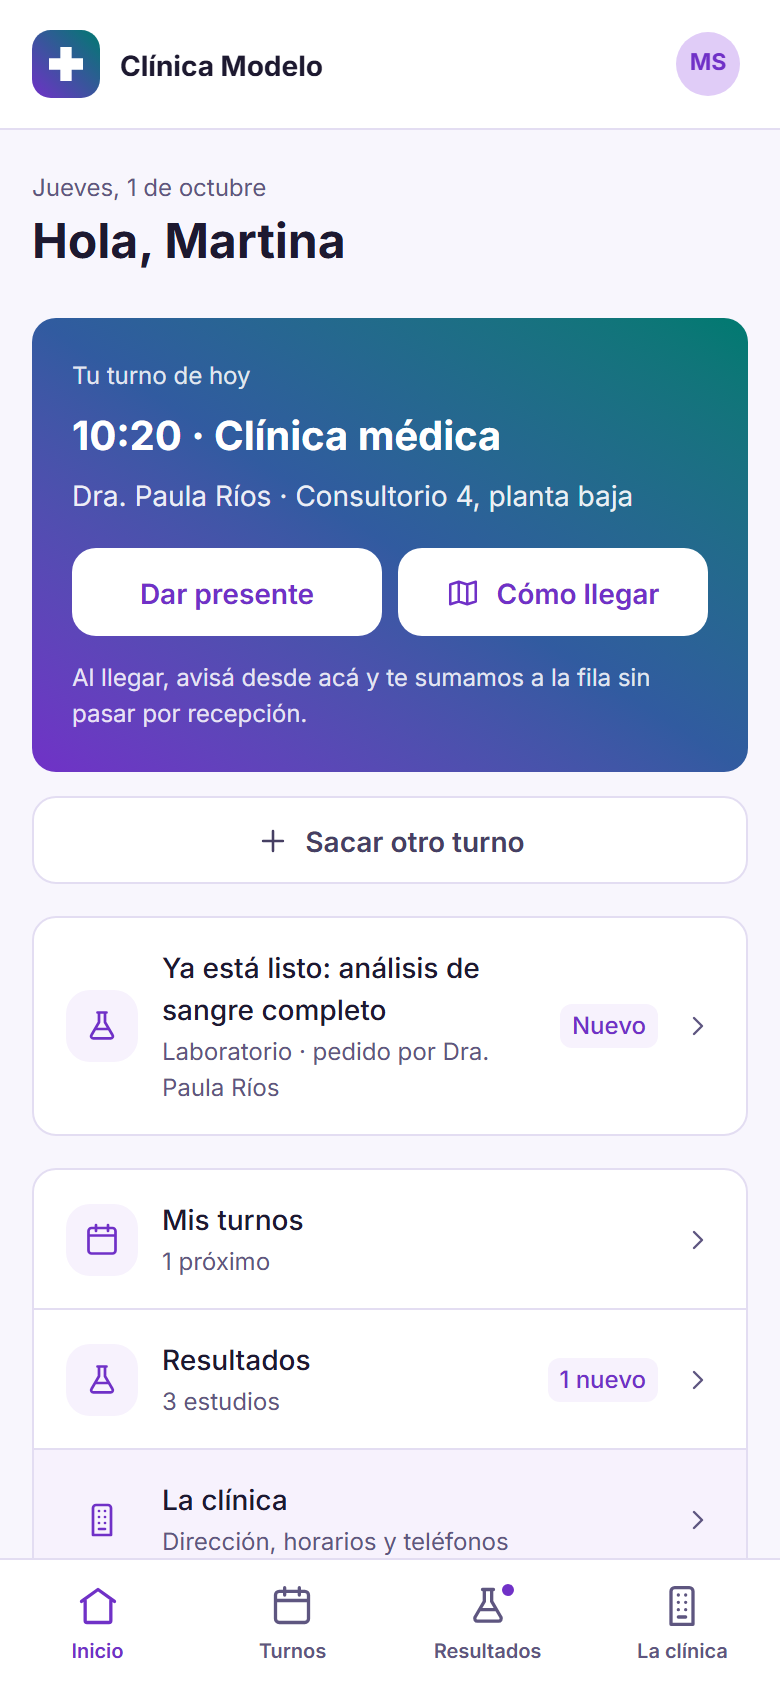
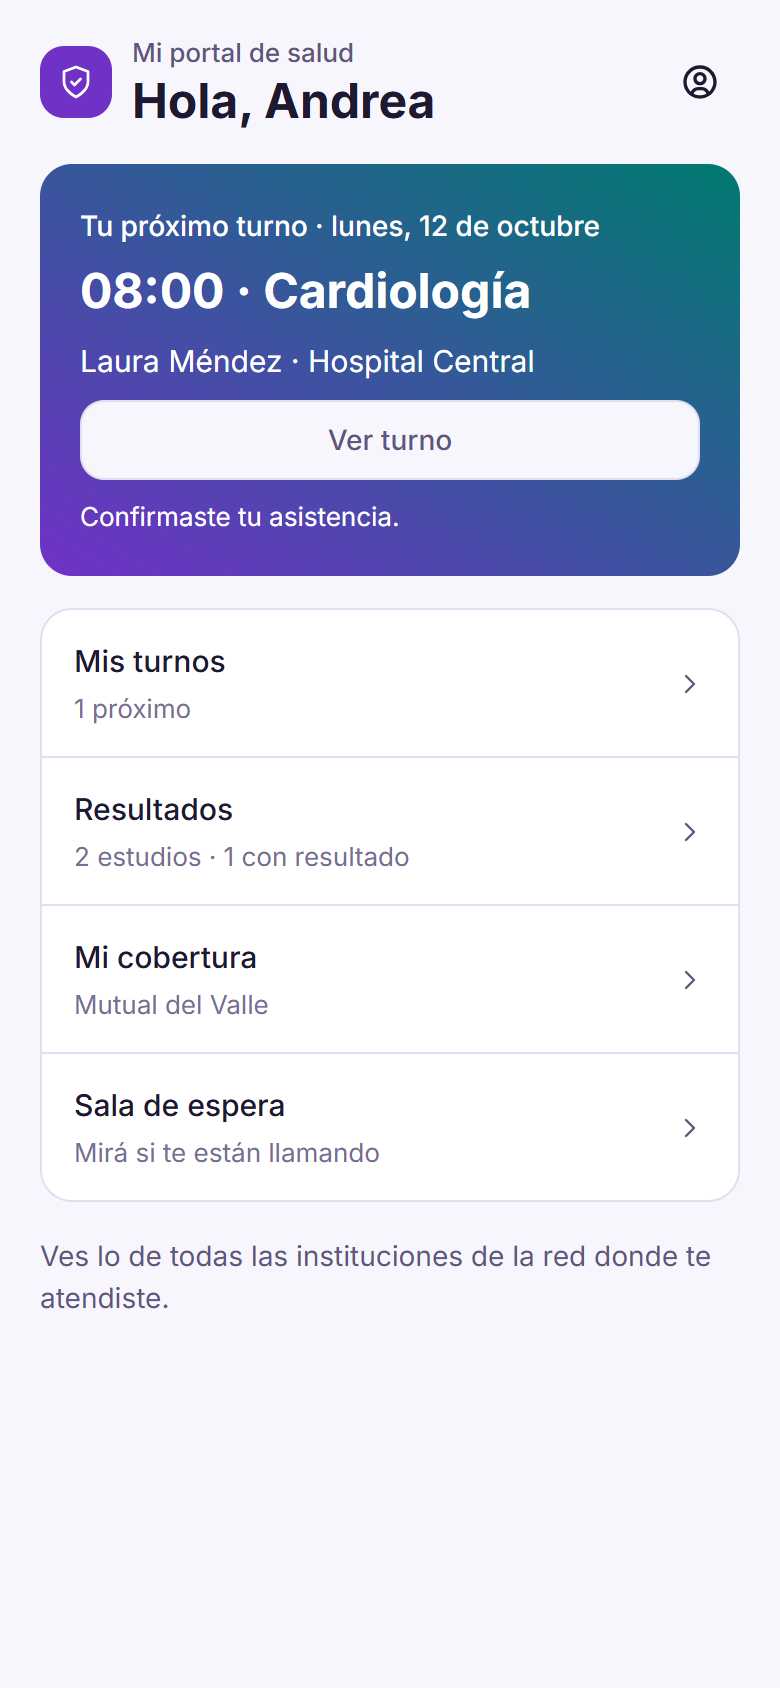
docs(portal): portal del paciente en README, guion, recorrido y diseño (#122)
El guion (minutos 9 a 12) recorre a Andrea Paniagua: confirmar el turno y
verlo en la agenda, resultados, cobertura y el llamado desde Cardiología.
Capturas nuevas del recorrido del comprador desde la carga de la demo.

Claude-Session: https://claude.ai/code/session_01PtaCLbYFwCoDXJMRH9gmHq

diff --git a/docs/comercial/guion-15-minutos.md b/docs/comercial/guion-15-minutos.md
@@ -13,7 +13,7 @@ entregan por el canal de la demo; no están en este documento.
 | 0–1 | Apertura | — |
 | 1–4 | Clínica: configuración | `admin@salud.local` en Hospital Central |
 | 4–9 | Clínica: uso | la misma |
-| 9–12 | Paciente | ninguna: la app para pacientes |
+| 9–12 | Paciente | `andrea.paniagua@paciente.test`, en el portal del paciente, y `cardio.med@hospital.gob.ar` para llamarla |
 | 12–15 | Financiador | `admin@mutualdelvalle.test`, en ventana privada |
 
 ## Antes de empezar
@@ -22,9 +22,12 @@ entregan por el canal de la demo; no están en este documento.
    **Hospital Central**, **Ingresar**.
 2. **Ventana 2, privada:** entrá con `admin@mutualdelvalle.test`. Dos pestañas de una misma
    ventana comparten la sesión; por eso tiene que ser otra ventana.
-3. **App para pacientes:** abrí `/demo/app-clinica` en el celular o en el modo celular del
-   navegador.
-4. Si ensayaste, pedí que recarguen el entorno **con la misma ancla**. Lo que se opera en el
+3. **Portal del paciente:** en el celular, o en el modo celular del navegador, abrí `/mi` →
+   **Ingresar** y entrá con `andrea.paniagua@paciente.test` y la clave de la demo. Su
+   sesión es aparte: no se mezcla con la del hospital aunque estén en el mismo navegador.
+4. **Ventana 3, privada:** entrá con `cardio.med@hospital.gob.ar` (Laura Méndez, cardióloga de
+   Central) y dejala en **Operación → Filas**, área Cardiología. Es la que llama a Andrea.
+5. Si ensayaste, pedí que recarguen el entorno **con la misma ancla**. Lo que se opera en el
    ensayo queda con la hora real y desordena los datos.
 
 ## 0–1 · Apertura
@@ -79,25 +82,30 @@ de Consultorios externos, abierta hoy a las 08:01.
 
 ## 9–12 · Paciente
 
-En la app para pacientes:
+En el portal del paciente, con **Andrea Paniagua**: la misma persona del caso de radiografía.
 
-1. **Empezar** (o *Ingresar*) → DNI **34521521**. La app reconoce a **Martina Sosa** y pide un
-   código de 6 dígitos: escribí cualquiera. **Sí, soy yo**.
-2. **Inicio:** **señalá** el turno de hoy (Clínica médica con la Dra. Paula Ríos) y el aviso de
-   un resultado listo.
-3. **Sacar otro turno →** Pediatría → Dra. Laura Molina → un horario → **Continuar**. **Señalá**
-   *A pagar en la clínica*: copago de OSDE 210, $ 3.500. **Decí:** «El paciente sabe cuánto va a
-   pagar antes de confirmar».
-4. Volvé al inicio → **Dar presente** → **Dar presente**. **Señalá** *Estás en la fila 3.º* y
-   el aviso de a qué consultorio lo van a llamar. **Decí:** «Avisa que llegó sin pasar por
-   recepción y espera donde quiere».
-5. **Resultados →** *Análisis de sangre completo*.
+1. **Inicio:** **señalá** su próximo turno (el primer horario libre a partir de tres días después de la carga; en
+   la carga verificada, el lunes a las 08:00), en
+   *Dra. Méndez · Cardiología*, **Hospital Central**. **Decí:** «Es la misma paciente que vimos en
+   el hospital, con sus datos reales, de todas las instituciones donde se atendió».
+2. En la tarjeta del turno, **Confirmar asistencia** y, en el turno, **Confirmar asistencia**. Pasá a la ventana 1, **Operación → Turnos**, y
+   abrí ese día en la agenda de la Dra. Méndez: el turno dice **Confirmado por el paciente**.
+   **Decí:** «Lo que hace el paciente llega al hospital en el acto. Nadie tuvo que llamarlo».
+   No lo canceles: se consume el escenario.
+3. **Resultados:** **señalá** la *Radiografía de tórax* «Solicitado el …, todavía sin resultado»,
+   que es la del caso, y el *Hemograma completo* con resultado **Normal** → el ícono de descarga. **Decí:**
+   «Baja el archivo que cargó el hospital, no un resumen armado aparte».
+4. **Cobertura:** **señalá** Mutual del Valle, Plan Integral, **MV00011**, *Confirmada por tu
+   institución*. **Decí:** «Es la misma afiliación que verificó la administrativa».
+5. **Sala de espera:** Andrea está esperando en Cardiología. Dejá esa pantalla abierta en el
+   celular y pasá a la ventana 3: en **Box 1**, **Llamar siguiente** (en esta carga llama a Luis
+   Gómez, que está antes); en **Box 2**, **Llamar siguiente**: es Andrea. En menos de 10 segundos
+   el celular muestra **Te están llamando · Box 2 · Hospital Central**. **Decí:** «Espera donde
+   quiere; el aviso le llega al teléfono». Después, en cada caso, **Volver a la cola**: deja la
+   demo como estaba.
 
-**Nota interna, no para decir:** la app es una versión de demostración, con datos propios.
-Martina Sosa y OSDE 210 no son los pacientes ni las coberturas de Central, y lo que se hace ahí
-no escribe en el hospital. No digas que es la misma persona que viste en Central. Si
-preguntan por la puesta en marcha, contestá: «El acceso definitivo y la integración con la
-historia clínica y los turnos de su institución se definen en la implementación».
+**Si preguntan:** para crear su cuenta, el paciente valida la identidad con los datos del DNI
+contra RENAPER. Sacar turno desde el portal todavía no está disponible.
 
 ## 12–15 · Financiador
 
@@ -124,6 +132,12 @@ la recibe y el financiador que la paga».
 - **El financiador entra en *Planes* y no en *Inicio*:** es lo esperable hoy (lo cambia el #92).
   Andá directo a *Autorizaciones*.
 - **Andrea no tiene autorización pendiente:** la respondieron en un ensayo. Mostrá a Carina Ojeda.
+- **El turno de Andrea ya figura confirmado o cancelado:** lo usaron en un ensayo. Pedí que corran
+  `seed_portal_demo`: le da un turno reservado nuevo sin tocar el resto de la carga.
+- **Andrea no aparece en la fila de Cardiología, o el portal dice «No estás en una sala de
+  espera»:** la atendieron o la dieron por ausente en un ensayo, o pasaron más de 24 horas desde la
+  carga. `seed_portal_demo` la vuelve a poner en la sala. Si la llamaron y no la devolvieron a la
+  cola, el portal sigue mostrando el llamado hasta 8 horas: **Volver a la cola** en su caso.
 - **Internación:** si te piden mostrarla, no uses la vista *Todos*: en esta carga una paciente
   figura en dos camas a la vez y aparece una tarjeta roja «Conflicto». Filtrá por Pediatría.
 - **Un número no coincide:** revisá institución, área, mes y filtros antes de citarlo. Si sigue

diff --git a/docs/comercial/recorrido-comprador.md b/docs/comercial/recorrido-comprador.md
@@ -140,21 +140,23 @@ lo que paga el financiador de lo que paga el paciente, con el cupo que le queda.
 
 ---
 
-## 3. El paciente: la app en el celular
+## 3. El paciente: su portal en el celular
 
-Abrí la app para pacientes desde la landing (**Ver la app**) o desde `/demo/app-clinica`, en el
-celular. Para entrar usá el DNI ficticio **34521521** (Martina Sosa) y cualquier código de 6
-dígitos.
+Abrí el portal del paciente desde la landing (**Ver la app**) o desde `/mi`, en el celular.
+Entrá como **Andrea Paniagua**: `andrea.paniagua@paciente.test`, con la clave de la demo. Es la
+misma persona que viste en Hospital Central y que vas a ver en Mutual del Valle: lo que se ve
+acá sale de la historia, la agenda y el padrón reales, de todas las instituciones de la red.
 
 | | |
 |---|---|
-| ![Inicio de la app](capturas/15-app-inicio.png) | ![Sacar turno](capturas/16-app-sacar-turno.png) |
-| **Inicio:** el turno del día, cómo llegar y los resultados nuevos. | **Sacar turno:** especialidad, profesional y horario, con lo que va a pagar antes de confirmar. |
-| ![En la fila](capturas/17-app-fila.png) | ![Resultados](capturas/18-app-resultados.png) |
-| **Presente y fila:** avisa que llegó y ve su lugar en la fila y a qué consultorio la van a llamar. | **Resultados:** los estudios listos, para ver y descargar. |
+| ![Inicio del portal](capturas/15-app-inicio.png) | ![Un turno](capturas/16-app-turno.png) |
+| **Inicio:** su próximo turno, con la institución que lo dio, y el resumen de estudios y cobertura. | **Turno:** confirma que va a ir o lo cancela hasta 24 horas antes, y la agenda del hospital lo ve en el acto. |
+| ![Estudios](capturas/17-app-estudios.png) | ![Cobertura](capturas/18-app-cobertura.png) |
+| **Estudios:** los que tienen resultado, con el archivo que cargó la institución, y los que esperan resultado. | **Cobertura:** financiador, plan y número de afiliada, con quién la confirmó. |
 
-La integración con la historia clínica y los turnos de tu institución se define en la
-implementación.
+Para crear una cuenta propia, la persona valida su identidad con los datos del DNI contra
+RENAPER. Sacar turno desde el portal, los avisos por WhatsApp y el código QR de llegada no están
+disponibles todavía.
 
 ---
 
@@ -181,8 +183,8 @@ reservas abiertas, con el detalle por afiliado.
 
 ## Qué se define en la implementación
 
-- **Integración:** el conector con los sistemas que ya usa la institución y el acceso definitivo
-  de los pacientes a la app. HEN ya ofrece una API completa y una fachada FHIR de lectura.
+- **Integración:** el conector con los sistemas que ya usa la institución y la puesta en producción
+  de RENAPER y del correo del portal del paciente. HEN ya ofrece una API completa y una fachada FHIR de lectura.
 - **Firma digital con certificado:** la firma profesional con matrícula ya queda registrada en
   cada entrada. El certificado criptográfico y su proveedor se eligen para cada proyecto.
 - **Facturación fiscal:** HEN registra prestaciones, cargos y cobros, y se integra con el

diff --git a/README.md b/README.md
@@ -30,21 +30,30 @@ docker compose up -d
 
 Para revisar el diseño HEN: la landing pública está en `/` (`/presentacion` es un
 alias) y, después del login, `/directorio` resuelve el directorio de plataforma, la
-elección de institución o el portal del financiador. La app de pacientes de ejemplo
-("Clínica Modelo") está en `/demo/app-clinica`. Es pública, no usa la API y guarda
-todo en la pestaña (`sessionStorage`): no autentica pacientes ni crea turnos,
-presencias o resultados reales. Para mostrarla:
+elección de institución o el portal del financiador.
 
-- **DNI 34521521** es una paciente con historia: turno para hoy, turnos
-  anteriores y resultados; después del código confirma «¿Sos Martina Sosa?».
-  Cualquier otro DNI es una paciente nueva: pide celular, código y tres datos.
-- El código del SMS acepta cualquier combinación de seis dígitos.
-- Al dar presente queda 3.ª en la fila y avanza un lugar cada 8 segundos: el
-  llamado llega solo en menos de medio minuto.
-- «Cerrar sesión» (en el perfil) o cerrar la pestaña deja la demo en cero.
+El **portal del paciente** está en `/mi`: cuenta con email y contraseña, identidad
+validada contra RENAPER (#120) y, después, sus turnos, estudios, cobertura y el
+llamado de la sala de espera en todas las instituciones de HEN (#121, #122). Usa
+la API `/api/mi/*`, con una sesión propia que no se mezcla con la del sistema.
+Para mostrarlo sin RENAPER:
 
-Sus recorridos se prueban sin backend con
-`npx playwright test -c playwright.app-clinica.config.js` (desde `frontend/`).
+- `seed_entorno_demo` (o `seed_portal_demo` sobre una carga ya hecha) crea la
+  cuenta **`andrea.paniagua@paciente.test`**, con la clave de la demo y la
+  identidad ya validada. Es Andrea Paniagua, la misma persona que el guion
+  muestra en Hospital Central (caso de radiografía) y en Mutual del Valle
+  (afiliada MV00011). Tiene un turno reservado a más de 24 horas, que se puede
+  confirmar y cancelar, un hemograma con archivo y la radiografía pendiente, y queda esperando en la sala de Cardiología: la llama
+  `cardio.med@hospital.gob.ar` desde **Filas**.
+- Lo que hace en el portal escribe en el hospital: al confirmar, la agenda
+  muestra «Confirmado por el paciente».
+- Para registrar una cuenta nueva sin RENAPER: `RENAPER_MODO=simulado` (sólo con
+  `ENTORNO` demo o desarrollo).
+
+Sus recorridos se prueban contra el backend real con
+`npx playwright test -c playwright.portal-app.config.js` (desde `frontend/`; antes
+hay que cargar el escenario: ver el comentario de esa config). `/demo/app-clinica`,
+la maqueta del #66, ya no existe y redirige a `/mi`.
 
 Eso levanta el **stack de desarrollo**, con recarga en caliente y el escenario de
 guardia sembrado. Superusuario: `admin@salud.local` / `demo1234`; el staff del

diff --git a/docs/PARA-DISENO.md b/docs/PARA-DISENO.md
@@ -83,7 +83,7 @@ Agregarlas a `capturas.spec.js` es la forma de que entren al circuito automátic
 Son 39 rutas. Agrupadas por dónde aparecen en el menú:
 
 ### Fuera de la sesión
-- **Login** · **Presentación HEN** · **App de pacientes de ejemplo** (`/demo/app-clinica/*`: ingreso, inicio, turnos, resultados, la clínica y perfil, con datos ficticios) · **Pantalla pública de llamados** (la TV de la sala de espera, entra por token, sin login) · **Activación de cuenta de financiador**
+- **Login** · **Presentación HEN** · **Portal del paciente** (`/mi/*`: crear cuenta, ingresar, recuperar la contraseña, validar la identidad; después inicio, turnos, estudios, cobertura, sala de espera y mi cuenta, con datos reales de toda la red) · **Pantalla pública de llamados** (la TV de la sala de espera, entra por token, sin login) · **Activación de cuenta de financiador**
 
 ### Entrada
 - **Directorio de instituciones** (sólo para plataforma; el resto entra directo a la suya) · **Inicio / Mi trabajo** · **Notificaciones**
@@ -154,8 +154,17 @@ Deuda visual conocida, por si aparece en una revisión:
 
 - **Modo oscuro HEN:** la paleta base ya está adaptada en la aplicación, pero
   falta contrastarla pantalla por pantalla cuando el diseño final esté listo.
-- **Portal ciudadano:** aplicar la misma base visual cuando exista el diseño y
-  se incorpore el portal.
+- **Portal del paciente (`/mi`):** sigue el Figma «05 · App clínica (MVP)» (nodo
+  61-132): sin barra ni pestañas, «‹ título» en cada pantalla, filas sin íconos,
+  llamado a pantalla completa y cancelar en una hoja. Colores y sombras son
+  tokens del DS. La escala de texto de celular de Figma (13, 15, 16, 17 y 22 px) y
+  sus radios (8, 10, 16, 24 y 28 px) no están en el DS: viven en `TAMANO` y `RADIO`
+  de `pages/portal/ui.jsx`. Diferencias a propósito: el gris secundario de Figma
+  (`#766E94`) es el token `texto-tenue`, para cumplir AA sobre el fondo lila, y los
+  rojos y verdes son los del DS, no los de la librería de Figma. La foto de la
+  bienvenida es la de Figma, marcada «reemplazar»: pesa 2 MB y conviene
+  reemplazarla por una versión liviana (WebP) cuando se elija la definitiva. El nombre y la marca del portal siguen sin
+  acordar (#59): hoy dice «Mi portal de salud» con un isotipo neutro.
 - **El buscador de pacientes se esconde en pantalla angosta**, porque compite con el
   título y la campana. Queda accesible desde Historia clínica, pero la solución buena
   es que se expanda desde un ícono.

diff --git a/docs/PRUEBAS.md b/docs/PRUEBAS.md
@@ -146,8 +146,13 @@ Dos workflows corren en cada push a `main` y en cada pull request:
   Django y generación del esquema OpenAPI. Va aparte porque tarda segundos y no
   necesita una base: juntarlo haría esperar lo rápido por lo lento.
 
-Los recorridos de Playwright **no** corren ahí todavía: necesitan el stack completo
-y datos sembrados, que son unos 15 minutos.
+Los recorridos de Playwright que necesitan el stack completo y datos sembrados
+(unos 15 minutos) **no** corren ahí todavía. Sí corren dos workflows de Playwright:
+
+- **`e2e-ui.yml`** — los recorridos con la API interceptada: alcanza con Vite.
+- **`e2e-portal.yml`** — la app del paciente (`playwright.portal-app.config.js`)
+  contra el backend real, en SQLite, con un escenario mínimo: `seed_guardia` y
+  `seed_portal_e2e`. Corre también si cambia el backend.
 
 ## El estado de hoy
 
